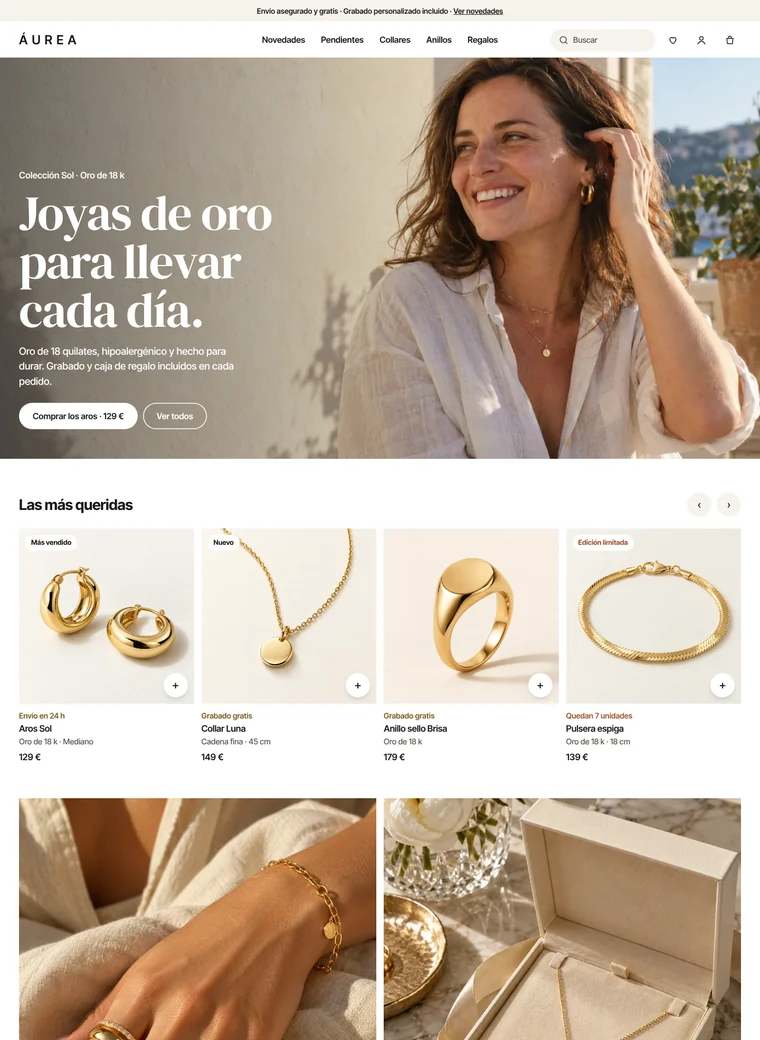
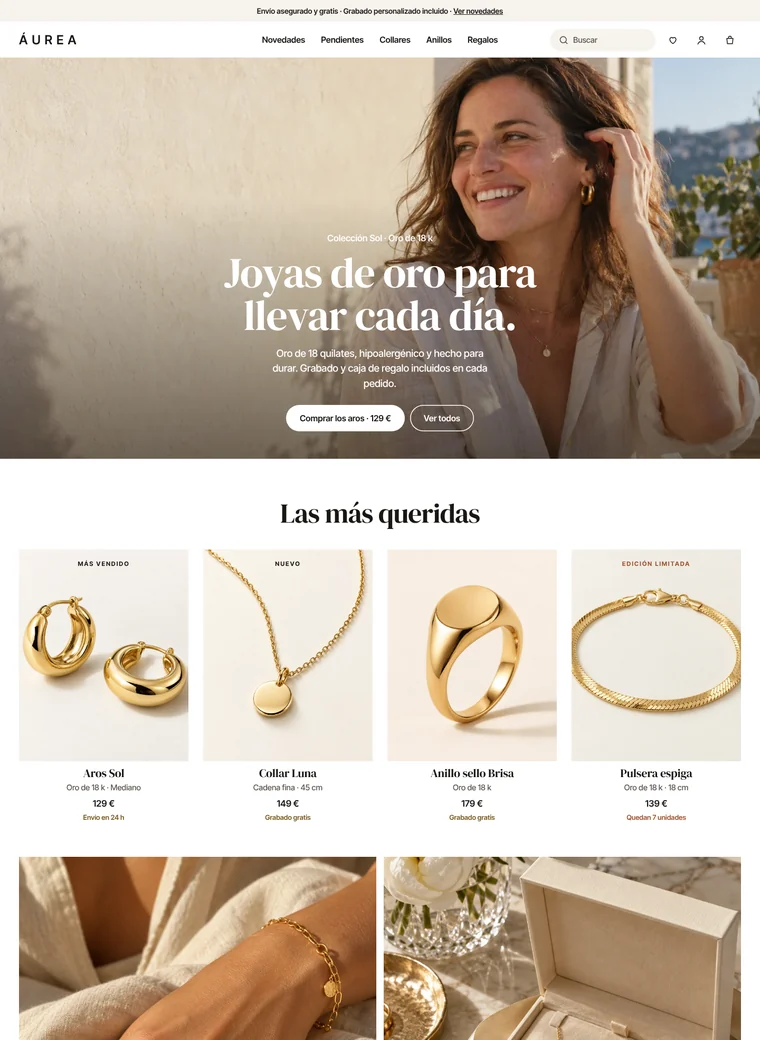
Tiendas demo: portada y productos con estructura distinta en Forma, Áurea y Nácar
- Forma: portada partida (bloque verde + foto) y tarjetas horizontales en 3 columnas.
- Áurea: texto centrado sobre la foto y productos verticales centrados, sin caja.
- Nácar: foto en caja redondeada con panel rosa y botón grande bajo cada producto.

Claude-Session: https://claude.ai/code/session_01KFBfcRSgf6tS55nzBqriKo

diff --git a/web117-404growth/demo-forma.html b/web117-404growth/demo-forma.html
@@ -94,6 +94,25 @@ a:focus-visible,button:focus-visible{outline:2px solid #2F6BFF;outline-offset:3p
 @media (max-width:1100px){.nav{display:none}.hd .w{grid-template-columns:auto 1fr}.sr{display:none}.row{grid-auto-columns:42%}.usp{grid-template-columns:1fr 1fr}}
 @media (max-width:640px){.w{padding:0 16px}.hero{height:82vh}.hero h1{font-size:76px}.hero .pp{display:none}.row{grid-auto-columns:72%}.duo{grid-template-columns:1fr}.tile .in{left:20px;bottom:20px}}
 @media (prefers-reduced-motion:reduce){.hero .tc-img img{animation:none}}
+
+/* variante FORMA */
+.hero{display:grid;grid-template-columns:1fr 1.2fr;height:auto;min-height:640px;background:#14281F}
+.hero:after{display:none}
+.hero .tc-img{position:relative;inset:auto;order:2;min-height:640px}
+.hero .tc-img img{animation:none;object-position:62% center}
+.hero .in{position:static;order:1;max-width:none;margin:0;padding:56px 56px 56px max(36px,3vw);display:flex;flex-direction:column;justify-content:center}
+.hero h1{font-size:clamp(64px,5.6vw,100px)}
+.hero .mo{color:#9FD0B4}
+.row{grid-auto-flow:row;grid-template-columns:repeat(3,1fr);grid-auto-columns:auto;overflow:visible;gap:16px}
+.arr{display:none}
+.card{flex-direction:row;align-items:center;gap:18px;background:var(--soft);border-radius:18px;padding:14px}
+.card .im{width:46%;flex:none;border-radius:12px;background:#E9ECE8}
+.card .im .tc-img{background:#E9ECE8}
+.card .tx{display:flex;flex-direction:column;min-width:0}
+.card .st{margin-top:0}
+.card .qa{position:static;width:auto;height:40px;border-radius:99px;padding:0 18px;margin-top:12px;background:var(--ink);color:#fff;font-size:14.5px;font-weight:600;box-shadow:none;align-self:flex-start}
+@media (max-width:1100px){.hero{grid-template-columns:1fr}.hero .tc-img{order:0;min-height:420px}.row{grid-template-columns:1fr 1fr}}
+@media (max-width:640px){.row{grid-template-columns:1fr}}
 </style>
 </head>
 <body>
@@ -154,8 +173,8 @@ var P=[
  {id:'omega',name:'Omega-3 Ultra',sb:'90 perlas',price:32,img:I+'p6.webp',st:'En stock',ok:1}
 ];
 Tienda({key:'forma',name:'FORMA',freeShip:50,products:P,
- card:function(p,T){return '<article class="card"><div class="im">'+(p.tag?'<span class="tg'+(p.hot?' hot':'')+'">'+T.esc(p.tag)+'</span>':'')+T.img(p.img,p.name)+'<button class="qa" type="button" data-add="'+p.id+'" aria-label="Añadir '+T.esc(p.name)+'">+</button></div>'+
-  '<span class="st'+(p.ok?' ok':'')+'">'+T.esc(p.st)+'</span><h3>'+T.esc(p.name)+'</h3><span class="sb">'+T.esc(p.sb)+'</span><span class="pr">'+T.money(p.price)+(p.was?'<s>'+T.money(p.was)+'</s>':'')+' <small style="color:var(--green);font-weight:600">· '+T.money(p.price*.85)+' suscrito</small></span></article>'}
+ card:function(p,T){return '<article class="card"><div class="im">'+(p.tag?'<span class="tg'+(p.hot?' hot':'')+'">'+T.esc(p.tag)+'</span>':'')+T.img(p.img,p.name)+'</div><div class="tx">'+
+  '<span class="st'+(p.ok?' ok':'')+'">'+T.esc(p.st)+'</span><h3>'+T.esc(p.name)+'</h3><span class="sb">'+T.esc(p.sb)+'</span><span class="pr">'+T.money(p.price)+(p.was?'<s>'+T.money(p.was)+'</s>':'')+'</span><small style="color:var(--green);font-weight:600;font-size:14px">'+T.money(p.price*.85)+' con suscripción</small><button class="qa" type="button" data-add="'+p.id+'">Añadir</button></div></article>'}
 });
 })();
 </script>

diff --git a/web117-404growth/demo-nacar.html b/web117-404growth/demo-nacar.html
@@ -94,6 +94,27 @@ a:focus-visible,button:focus-visible{outline:2px solid #2F6BFF;outline-offset:3p
 @media (max-width:1100px){.nav{display:none}.hd .w{grid-template-columns:auto 1fr}.sr{display:none}.row{grid-auto-columns:42%}.usp{grid-template-columns:1fr 1fr}}
 @media (max-width:640px){.w{padding:0 16px}.hero{height:82vh}.hero h1{font-size:76px}.hero .pp{display:none}.row{grid-auto-columns:72%}.duo{grid-template-columns:1fr}.tile .in{left:20px;bottom:20px}}
 @media (prefers-reduced-motion:reduce){.hero .tc-img img{animation:none}}
+
+/* variante NÁCAR */
+.hero{margin:18px max(36px,env(safe-area-inset-left,0px)) 0;border-radius:28px;height:min(680px,calc(100vh - 130px))}
+.hero:after{display:none}
+.hero .tc-img img{object-position:70% center}
+.hero .in{left:28px;right:auto;top:28px;bottom:28px;width:min(560px,46%);max-width:none;margin:0;padding:44px 40px;border-radius:22px;background:rgba(250,240,239,.94);color:var(--ink);display:flex;flex-direction:column;justify-content:center}
+.hero .mo{color:var(--red);font-weight:700}
+.hero h1{font-size:clamp(54px,4.8vw,84px);color:var(--ink)}
+.hero p{color:#3B3133}
+.hero .cta .btn:first-child{background:var(--ink);color:#fff}
+.hero .cta a.btn{color:var(--ink)!important;box-shadow:inset 0 0 0 1.5px var(--ink)!important}
+.sh h2{font-weight:600;letter-spacing:-.04em}
+.card .im{border-radius:22px;background:#F6E7E5}
+.card .im .tc-img{background:#F6E7E5}
+.card .tg{border-radius:99px;background:var(--ink);color:#fff}
+.card .tg.hot{background:var(--red);color:#fff}
+.card .bb{margin-top:12px;height:46px;border-radius:99px;border:0;background:var(--ink);color:#fff;font-weight:600;font-size:15px;cursor:pointer;transition:background .2s}
+.card .bb:hover{background:var(--red)}
+.card .st{order:-1}
+@media (max-width:900px){.hero .in{width:auto;right:20px;left:20px;top:auto}}
+
 </style>
 </head>
 <body>
@@ -154,8 +175,8 @@ var P=[
  {id:'spf',name:'Protector SPF 50',sb:'Acabado invisible · 50 ml',price:24,img:I+'p5.webp',st:'Envío en 24 h',ok:1}
 ];
 Tienda({key:'nacar',name:'NÁCAR',freeShip:40,products:P,
- card:function(p,T){return '<article class="card"><div class="im">'+(p.tag?'<span class="tg'+(p.hot?' hot':'')+'">'+T.esc(p.tag)+'</span>':'')+T.img(p.img,p.name)+'<button class="qa" type="button" data-add="'+p.id+'" aria-label="Añadir '+T.esc(p.name)+'">+</button></div>'+
-  '<span class="st'+(p.ok?' ok':'')+'">'+T.esc(p.st)+'</span><h3>'+T.esc(p.name)+'</h3><span class="sb">'+T.esc(p.sb)+'</span><span class="pr">'+T.money(p.price)+(p.was?'<s>'+T.money(p.was)+'</s>':'')+'</span></article>'}
+ card:function(p,T){return '<article class="card"><div class="im">'+(p.tag?'<span class="tg'+(p.hot?' hot':'')+'">'+T.esc(p.tag)+'</span>':'')+T.img(p.img,p.name)+'</div>'+
+  '<span class="st'+(p.ok?' ok':'')+'">'+T.esc(p.st)+'</span><h3>'+T.esc(p.name)+'</h3><span class="sb">'+T.esc(p.sb)+'</span><span class="pr">'+T.money(p.price)+(p.was?'<s>'+T.money(p.was)+'</s>':'')+'</span><button class="bb" type="button" data-add="'+p.id+'">Añadir a la cesta</button></article>'}
 });
 })();
 </script>

diff --git a/web117-404growth/demo-aurea.html b/web117-404growth/demo-aurea.html
@@ -94,6 +94,26 @@ a:focus-visible,button:focus-visible{outline:2px solid #2F6BFF;outline-offset:3p
 @media (max-width:1100px){.nav{display:none}.hd .w{grid-template-columns:auto 1fr}.sr{display:none}.row{grid-auto-columns:42%}.usp{grid-template-columns:1fr 1fr}}
 @media (max-width:640px){.w{padding:0 16px}.hero{height:82vh}.hero h1{font-size:76px}.hero .pp{display:none}.row{grid-auto-columns:72%}.duo{grid-template-columns:1fr}.tile .in{left:20px;bottom:20px}}
 @media (prefers-reduced-motion:reduce){.hero .tc-img img{animation:none}}
+
+/* variante ÁUREA */
+.hero:after{background:linear-gradient(180deg,rgba(0,0,0,.05) 35%,rgba(30,20,10,.62))}
+.hero .in{text-align:center;bottom:52px}
+.hero h1{margin-left:auto;margin-right:auto;max-width:16ch;font-size:clamp(56px,5.6vw,96px)}
+.hero p{margin-left:auto;margin-right:auto}
+.hero .cta{justify-content:center}
+.sh{justify-content:center;text-align:center;margin-bottom:30px}
+.sh h2{font-family:var(--d);font-weight:400;font-size:clamp(40px,3.6vw,56px);letter-spacing:-.02em}
+.arr{display:none}
+.row{grid-auto-columns:calc((100% - 3*28px)/4);gap:28px}
+.card{text-align:center;align-items:center}
+.card .im{aspect-ratio:4/5;width:100%;background:#F4EEE6}
+.card .im .tc-img{background:#F4EEE6}
+.card .tg{left:50%;transform:translateX(-50%);border-radius:0;background:transparent;color:var(--ink);font-size:11.5px;letter-spacing:.16em;text-transform:uppercase;top:14px}
+.card .qa{left:50%;right:auto;bottom:16px;transform:translateX(-50%);width:auto;height:42px;border-radius:0;padding:0 22px;background:#fff;font-size:13px;font-weight:600;letter-spacing:.12em;text-transform:uppercase;opacity:0;transition:opacity .25s}
+.card:hover .qa{opacity:1}
+.card h3{font-family:var(--d);font-weight:400;font-size:22px;margin-top:6px}
+.card .st{order:5;font-size:13px;margin-top:4px}
+
 </style>
 </head>
 <body>
@@ -154,7 +174,7 @@ var P=[
  {id:'trio',name:'Trío de anillos',sb:'Con diamante',price:199,img:I+'p6.webp',st:'Envío en 24 h',ok:1}
 ];
 Tienda({key:'aurea',name:'ÁUREA',freeShip:0,products:P,
- card:function(p,T){return '<article class="card"><div class="im">'+(p.tag?'<span class="tg'+(p.hot?' hot':'')+'">'+T.esc(p.tag)+'</span>':'')+T.img(p.img,p.name)+'<button class="qa" type="button" data-add="'+p.id+'" aria-label="Añadir '+T.esc(p.name)+'">+</button></div>'+
+ card:function(p,T){return '<article class="card"><div class="im">'+(p.tag?'<span class="tg'+(p.hot?' hot':'')+'">'+T.esc(p.tag)+'</span>':'')+T.img(p.img,p.name)+'<button class="qa" type="button" data-add="'+p.id+'">Añadir a la cesta</button></div>'+
   '<span class="st'+(p.ok?' ok':'')+'">'+T.esc(p.st)+'</span><h3>'+T.esc(p.name)+'</h3><span class="sb">'+T.esc(p.sb)+'</span><span class="pr">'+T.money(p.price)+'</span></article>'}
 });
 })();
